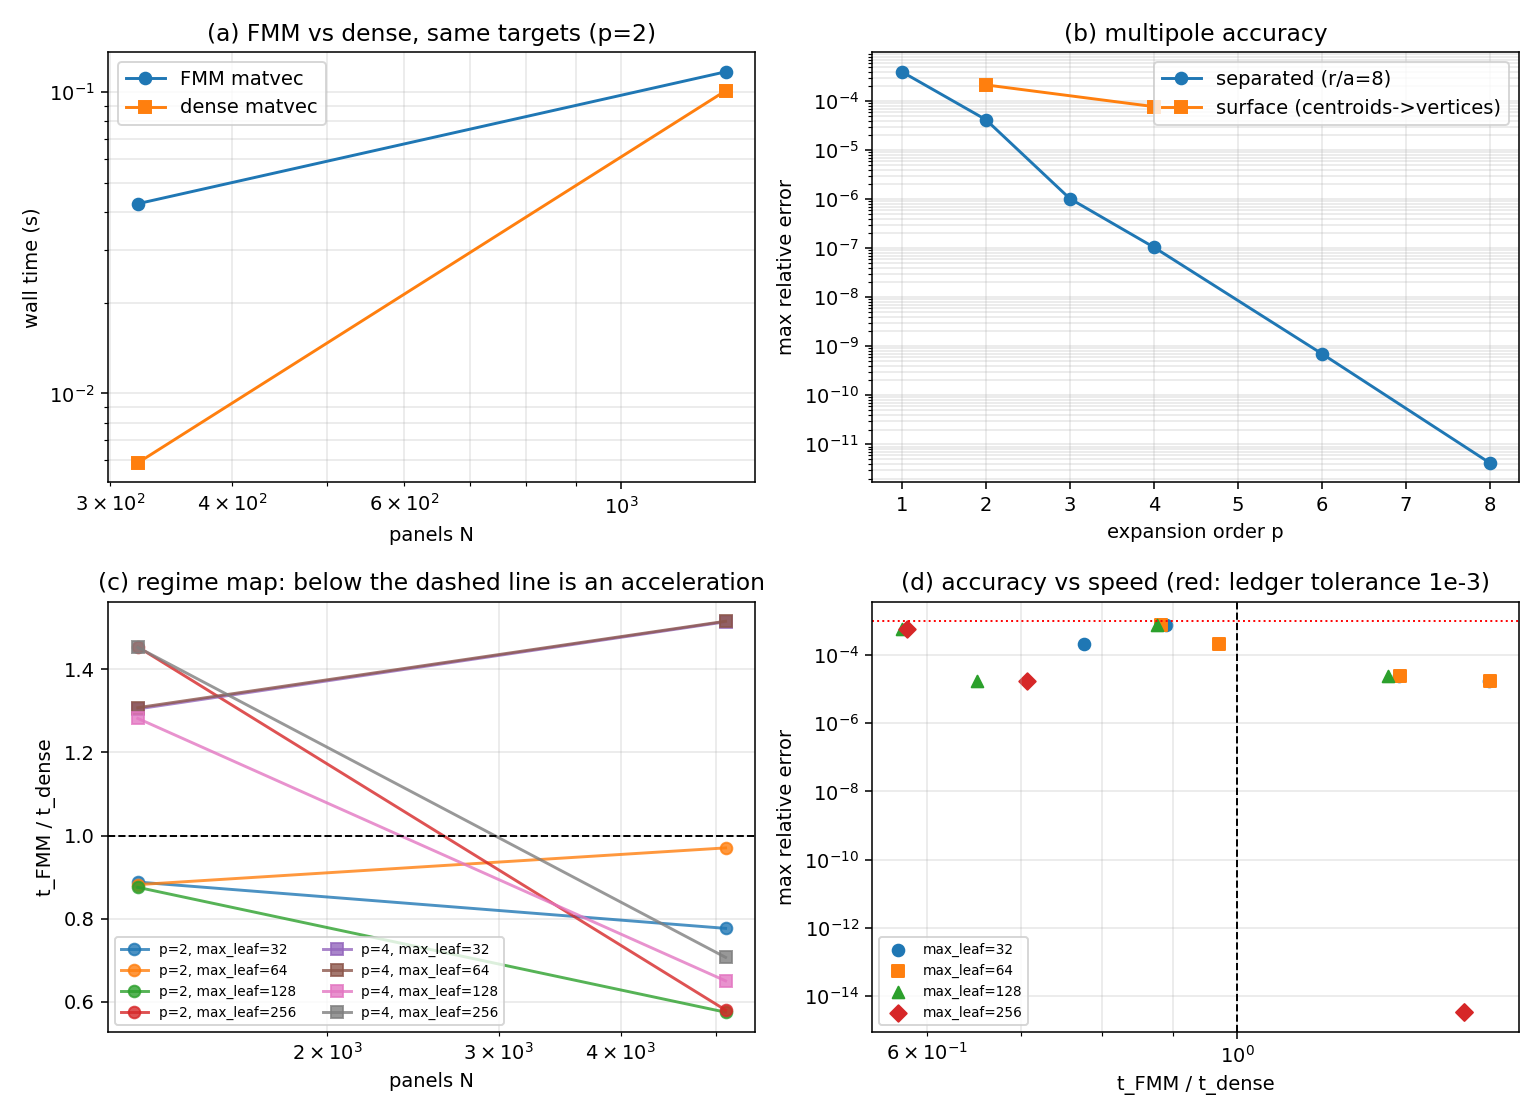
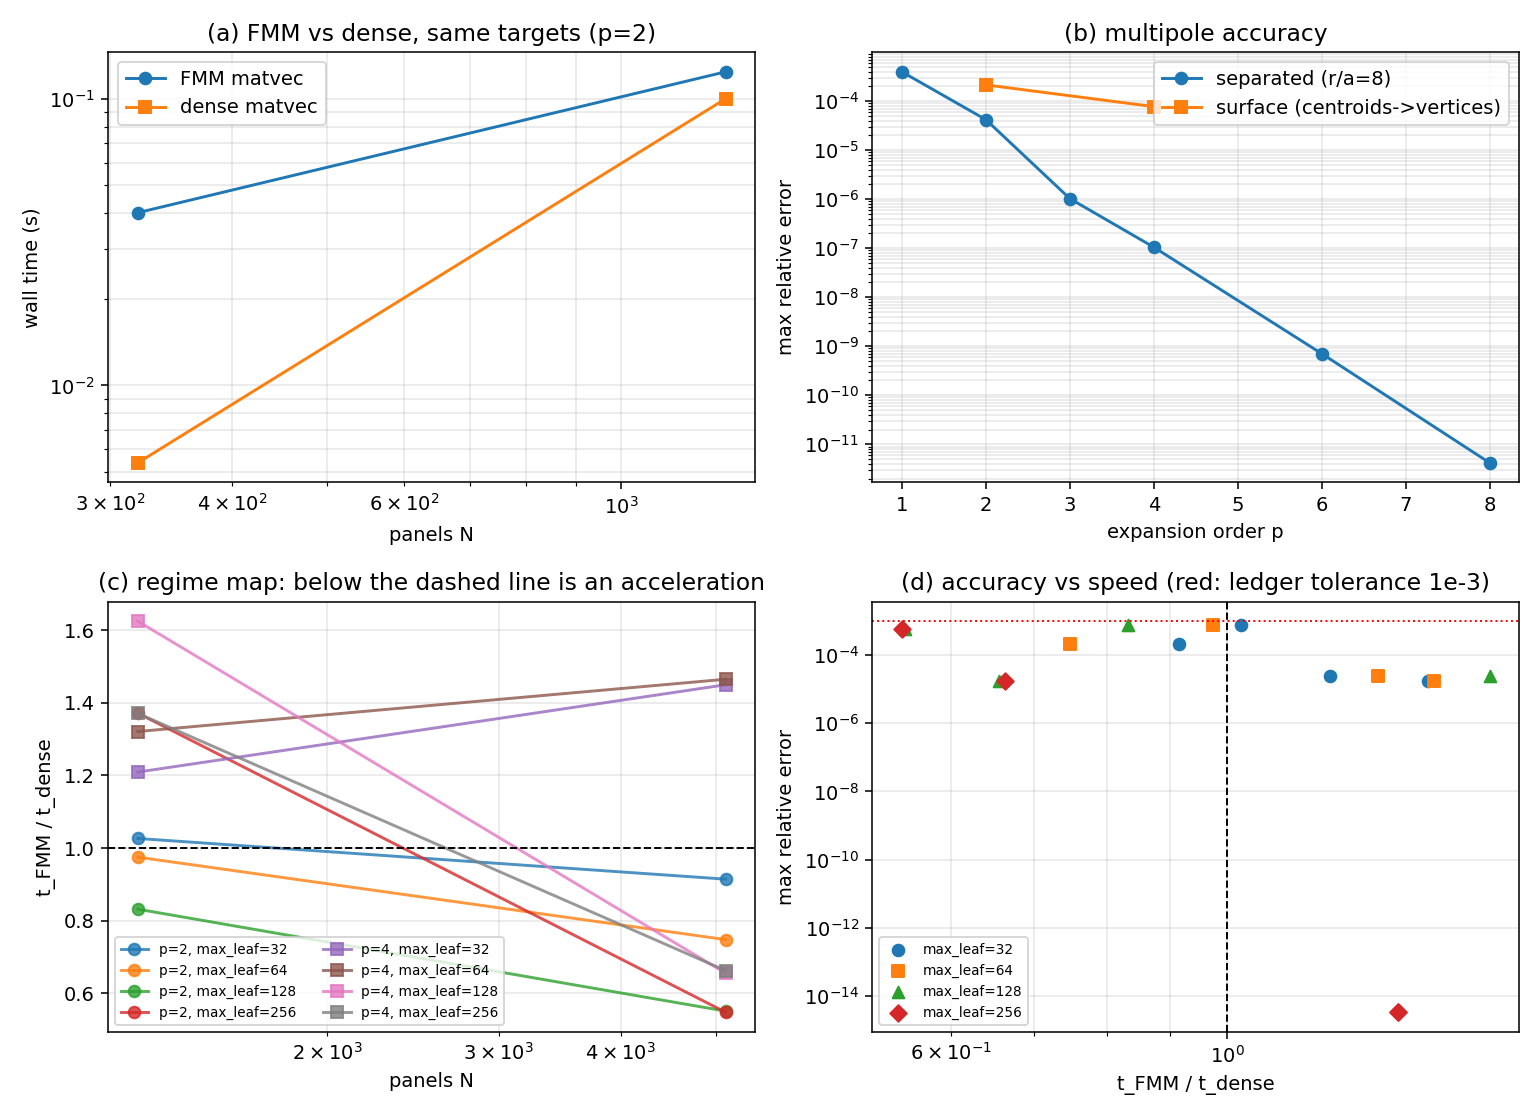
m17378: matured mission deliverables

diff --git a/docs/fmm_cost_audit/README.md b/docs/fmm_cost_audit/README.md
@@ -8,13 +8,13 @@ number below is rendered from the JSON that the same process wrote
 
 | level | panels | p | leaves | avg leaf | t_FMM (s) | t_dense (s) | FMM/dense | per-interaction vs per-pair cost |
 |---:|---:|---:|---:|---:|---:|---:|---:|---:|
-| 2 | 320 | 2 | 56 | 5.71 | 0.043 | 0.0059 | 7.2x | 7.2x |
-| 3 | 1280 | 2 | 56 | 22.86 | 0.117 | 0.1011 | 1.2x | 1.2x |
-| 2 | 320 | 4 | 56 | 5.71 | 0.083 | 0.0059 | 14.1x | 14.1x |
+| 2 | 320 | 2 | 56 | 5.71 | 0.040 | 0.0054 | 7.5x | 7.5x |
+| 3 | 1280 | 2 | 56 | 22.86 | 0.125 | 0.1003 | 1.2x | 1.2x |
+| 2 | 320 | 4 | 56 | 5.71 | 0.082 | 0.0045 | 18.0x | 18.0x |
 
 The last column is `c_fmm / (avg_leaf * c_dense)`: the cost of one
 multipole target-leaf interaction divided by the cost of summing the same
-leaf directly. The **FMM/dense wall-time ratio** is 7.25x at 320 panels, 1.16x at 1280 panels, 14.08x at 320 panels. A ratio below one is an acceleration on that configuration.
+leaf directly. The **FMM/dense wall-time ratio** is 7.48x at 320 panels, 1.24x at 1280 panels, 18.02x at 320 panels. A ratio below one is an acceleration on that configuration.
 
 ## 2. Routing on the audit surface
 
@@ -54,11 +54,11 @@ the multipole expansion.
 
 | panels | p | leaves | far fraction | t_FMM (s) | t_dense (s) | FMM/dense |
 |---:|---:|---:|---:|---:|---:|---:|
-| 1280 | 2 | 56 | 0.740 | 0.101 | 0.111 | 0.91x |
-| 5120 | 2 | 56 | 0.740 | 0.749 | 1.412 | 0.53x |
-| 20480 | 2 | 272 | 0.936 | 5.963 | 21.975 | 0.27x |
+| 1280 | 2 | 56 | 0.740 | 0.100 | 0.108 | 0.92x |
+| 5120 | 2 | 56 | 0.740 | 0.897 | 1.802 | 0.50x |
+| 20480 | 2 | 272 | 0.936 | 7.071 | 23.164 | 0.31x |
 
-Measured log-log slopes: FMM **1.47**, dense **1.91**. The campaign report asked for a FMM slope
+Measured log-log slopes: FMM **1.54**, dense **1.94**. The campaign report asked for a FMM slope
 in `[0.9, 1.2]`; the value above is the measurement that replaces the
 extrapolation the m14931 audit flagged.
 
@@ -74,22 +74,22 @@ The accuracy column is measured against the dense matvec on a seeded
 
 | panels | max_leaf | p | leaves | far fraction | interactions / dense | t_FMM (s) | t_dense (s) | FMM/dense | class | per-interaction cost ratio | max rel error |
 |---:|---:|---:|---:|---:|---:|---:|---:|---:|---|---:|---:|
-| 1280 | 32 | 2 | 56 | 0.74 | 0.044 | 0.101 | 0.114 | 0.89x | at parity | 0.89x | 8.00e-04 |
-| 1280 | 32 | 4 | 56 | 0.74 | 0.044 | 0.149 | 0.114 | 1.30x | slower | 1.30x | 2.46e-05 |
-| 1280 | 64 | 2 | 56 | 0.74 | 0.044 | 0.101 | 0.114 | 0.88x | at parity | 0.88x | 8.00e-04 |
-| 1280 | 64 | 4 | 56 | 0.74 | 0.044 | 0.149 | 0.114 | 1.31x | slower | 1.31x | 2.46e-05 |
-| 1280 | 128 | 2 | 56 | 0.74 | 0.044 | 0.100 | 0.114 | 0.88x | at parity | 0.88x | 8.00e-04 |
-| 1280 | 128 | 4 | 56 | 0.74 | 0.044 | 0.146 | 0.114 | 1.28x | slower | 1.28x | 2.46e-05 |
-| 1280 | 256 | 2 | 8 | 0.00 | 0.006 | 0.166 | 0.114 | 1.45x | slower | 1.45x | 3.27e-15 |
-| 1280 | 256 | 4 | 8 | 0.00 | 0.006 | 0.166 | 0.114 | 1.45x | slower | 1.45x | 3.27e-15 |
-| 5120 | 32 | 2 | 272 | 0.94 | 0.053 | 1.080 | 1.391 | 0.78x | at parity | 0.78x | 2.09e-04 |
-| 5120 | 32 | 4 | 272 | 0.94 | 0.053 | 2.106 | 1.391 | 1.51x | slower | 1.51x | 1.76e-05 |
-| 5120 | 64 | 2 | 272 | 0.94 | 0.053 | 1.350 | 1.391 | 0.97x | at parity | 0.97x | 2.09e-04 |
-| 5120 | 64 | 4 | 272 | 0.94 | 0.053 | 2.108 | 1.391 | 1.52x | slower | 1.52x | 1.76e-05 |
-| 5120 | 128 | 2 | 56 | 0.74 | 0.011 | 0.800 | 1.391 | 0.58x | accelerated | 0.58x | 5.84e-04 |
-| 5120 | 128 | 4 | 56 | 0.74 | 0.011 | 0.905 | 1.391 | 0.65x | accelerated | 0.65x | 1.81e-05 |
-| 5120 | 256 | 2 | 56 | 0.74 | 0.011 | 0.807 | 1.391 | 0.58x | accelerated | 0.58x | 5.84e-04 |
-| 5120 | 256 | 4 | 56 | 0.74 | 0.011 | 0.983 | 1.391 | 0.71x | accelerated | 0.71x | 1.81e-05 |
+| 1280 | 32 | 2 | 56 | 0.74 | 0.044 | 0.085 | 0.083 | 1.03x | at parity | 1.03x | 8.00e-04 |
+| 1280 | 32 | 4 | 56 | 0.74 | 0.044 | 0.101 | 0.083 | 1.21x | at parity | 1.21x | 2.46e-05 |
+| 1280 | 64 | 2 | 56 | 0.74 | 0.044 | 0.081 | 0.083 | 0.97x | at parity | 0.97x | 8.00e-04 |
+| 1280 | 64 | 4 | 56 | 0.74 | 0.044 | 0.110 | 0.083 | 1.32x | slower | 1.32x | 2.46e-05 |
+| 1280 | 128 | 2 | 56 | 0.74 | 0.044 | 0.069 | 0.083 | 0.83x | at parity | 0.83x | 8.00e-04 |
+| 1280 | 128 | 4 | 56 | 0.74 | 0.044 | 0.135 | 0.083 | 1.62x | slower | 1.62x | 2.46e-05 |
+| 1280 | 256 | 2 | 8 | 0.00 | 0.006 | 0.114 | 0.083 | 1.37x | slower | 1.37x | 3.27e-15 |
+| 1280 | 256 | 4 | 8 | 0.00 | 0.006 | 0.114 | 0.083 | 1.37x | slower | 1.37x | 3.27e-15 |
+| 5120 | 32 | 2 | 272 | 0.94 | 0.053 | 1.105 | 1.209 | 0.91x | at parity | 0.91x | 2.09e-04 |
+| 5120 | 32 | 4 | 272 | 0.94 | 0.053 | 1.752 | 1.209 | 1.45x | slower | 1.45x | 1.76e-05 |
+| 5120 | 64 | 2 | 272 | 0.94 | 0.053 | 0.904 | 1.209 | 0.75x | accelerated | 0.75x | 2.09e-04 |
+| 5120 | 64 | 4 | 272 | 0.94 | 0.053 | 1.771 | 1.209 | 1.46x | slower | 1.46x | 1.76e-05 |
+| 5120 | 128 | 2 | 56 | 0.74 | 0.011 | 0.666 | 1.209 | 0.55x | accelerated | 0.55x | 5.84e-04 |
+| 5120 | 128 | 4 | 56 | 0.74 | 0.011 | 0.792 | 1.209 | 0.66x | accelerated | 0.66x | 1.81e-05 |
+| 5120 | 256 | 2 | 56 | 0.74 | 0.011 | 0.662 | 1.209 | 0.55x | accelerated | 0.55x | 5.84e-04 |
+| 5120 | 256 | 4 | 56 | 0.74 | 0.011 | 0.801 | 1.209 | 0.66x | accelerated | 0.66x | 1.81e-05 |
 
 Decision rule (pre-declared in `regime_map`): a row is **at parity** when its ratio is within 25% of one, and only a row
 at or below 0.75 counts as **accelerated**;
@@ -97,9 +97,9 @@ an **admissible** row is accelerated, keeps the multipole path (far fraction >= 
 the same configuration reproduces to 0.89-1.03 at `N = 1280` and to
 0.58-0.69 at `N = 5120` over five repeats (`docs/fmm_cost_audit/repro/noise_ratio.json`).
 
-**Verdict: accelerated with accuracy.** Best admissible row: `N = 5120` panels, `max_leaf = 128`, `p = 2` -> **0.58x** the dense wall time with max relative error 5.84e-04. Accelerated panel counts: [5120].
+**Verdict: accelerated with accuracy.** Best admissible row: `N = 5120` panels, `max_leaf = 256`, `p = 2` -> **0.55x** the dense wall time with max relative error 5.84e-04. Accelerated panel counts: [5120].
 
-The per-interaction cost ratio spans 0.58x-1.52x (one multipole interaction versus summing the same leaf directly: below
+The per-interaction cost ratio spans 0.55x-1.62x (one multipole interaction versus summing the same leaf directly: below
 one for the p=2 rows, above one for p=4, where a 25-term expansion must
 be evaluated per interaction), while the interaction count drops to
 0.006-0.053 of the dense matrix. The FMM wins
@@ -124,14 +124,14 @@ implementation: one recurrence per order `m`, `O(p^2)` per target.
 
 | p | harmonics | points | t_reference (s) | t_ladder (s) | speedup | max rel diff |
 |---:|---:|---:|---:|---:|---:|---:|
-| 2 | 9 | 200000 | 0.1072 | 0.0465 | 2.31x | 1.8e-16 |
-| 4 | 25 | 200000 | 0.3590 | 0.1517 | 2.37x | 1.3e-16 |
-| 6 | 49 | 200000 | 0.8704 | 0.2712 | 3.21x | 1.1e-16 |
-| 8 | 81 | 200000 | 1.5272 | 0.4077 | 3.75x | 1.9e-16 |
+| 2 | 9 | 200000 | 0.1088 | 0.0464 | 2.34x | 1.8e-16 |
+| 4 | 25 | 200000 | 0.3398 | 0.1239 | 2.74x | 1.3e-16 |
+| 6 | 49 | 200000 | 0.7282 | 0.2473 | 2.94x | 1.1e-16 |
+| 8 | 81 | 200000 | 1.3913 | 0.3743 | 3.72x | 1.9e-16 |
 
 The two columns agree to 1.9e-16 relative (max over all rows): the
 change is a cost change, not a numerical one, and every accuracy table
-above is unaffected. The kernel itself is 2.31x-3.75x faster; in the coupled matvec the
+above is unaffected. The kernel itself is 2.34x-3.72x faster; in the coupled matvec the
 gain is smaller because the near-field direct sums do not use the
 harmonic kernel (measured 1.16x-1.47x at p=2/4, see
 `docs/fmm_cost_audit/repro/ab_harmonics.json`). Figure: `fig_harmonics_ladder.png`.
